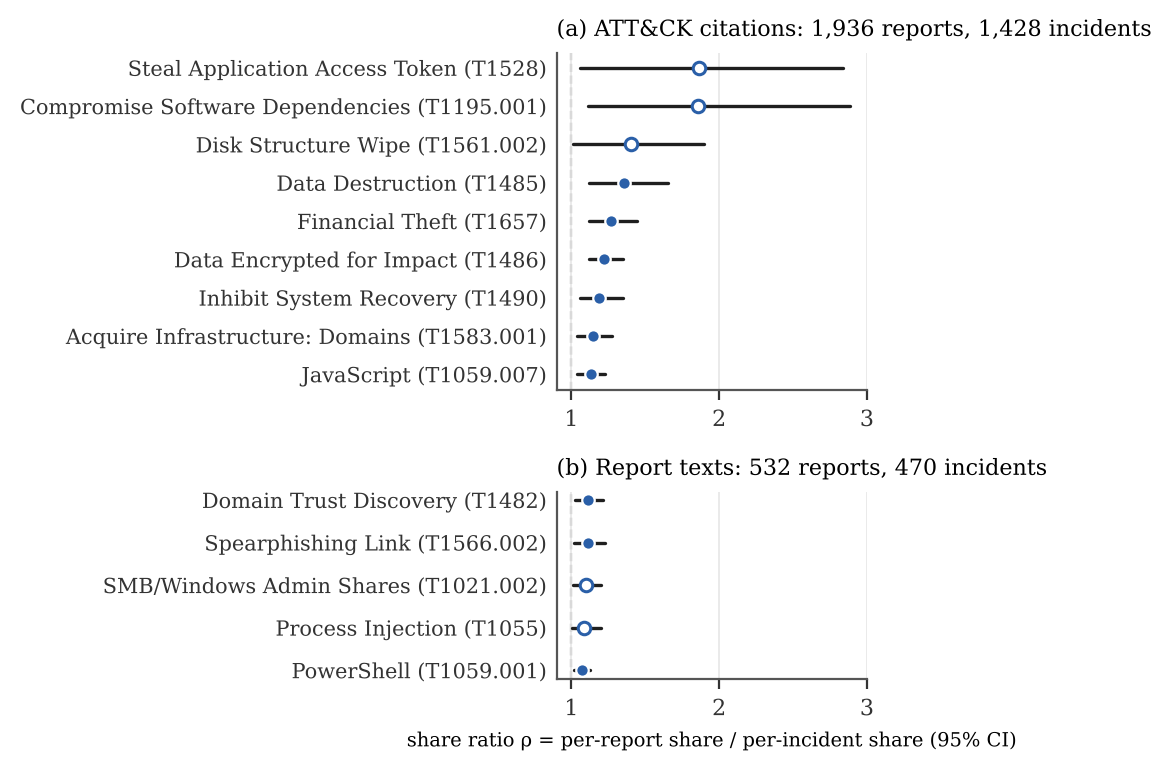
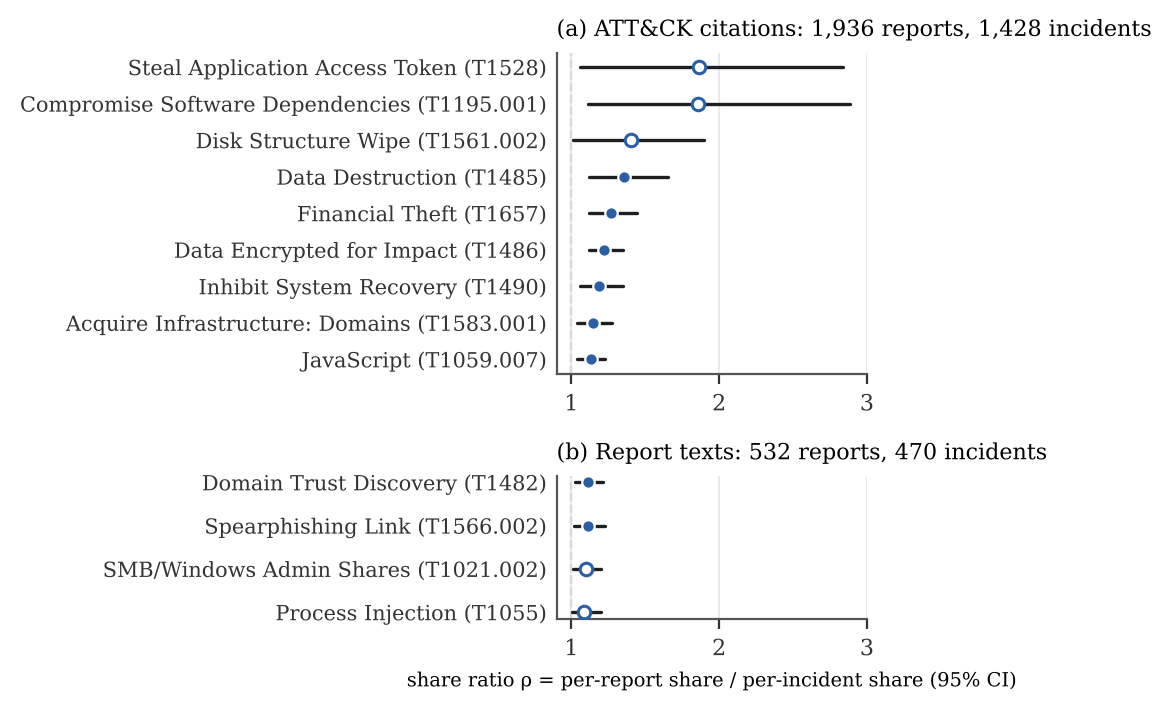
paper_extra: fix summary print for the new keys
Claude-Session: https://claude.ai/code/session_01PhjJLHNqW61KiBbmTewyki

Changed region(s): [[0.0, 0.0, 0.9838, 0.557], [0.0922, 0.5879, 0.8915, 0.9902], [0.7378, 0.526, 0.7686, 0.557]]

diff --git a/scripts/paper_extra.py b/scripts/paper_extra.py
@@ -94,7 +94,7 @@ if __name__ == '__main__':
     out['corpus_known_vendor_only'] = {k: kd[k] for k in ('n_reports', 'n_vendors', 'n_tested', 'spearman_producer_vs_duplicate', 'spearman_ci', 'n_producer_bh_sig')}
     out['corpus_sources'] = {'all': dict(C.Counter(r['source'] for r in cr).most_common()), 'labelled': dict(C.Counter(r['source'] for r in sub).most_common())}
     json.dump(out, open(RES + 'producer_vs_duplicate.json', 'w'), indent=1)
-    for k, v in out.items():
+    for k, v in [(k, v) for k, v in out.items() if k in ('attack', 'corpus')]:
         print(k, 'reports', v['n_reports'], 'vendors', v['n_vendors'], 'top', v['top_vendors'][:5])
         print('  producer over:', [(x['t'], x['name'][:22], x['producer_ratio'], x['duplicate_ratio']) for x in v['techniques'] if x['producer_shift'] == 'over'][:12])
         print('  producer under:', [(x['t'], x['name'][:22], x['producer_ratio'], x['duplicate_ratio']) for x in v['techniques'] if x['producer_shift'] == 'under'][:12])
